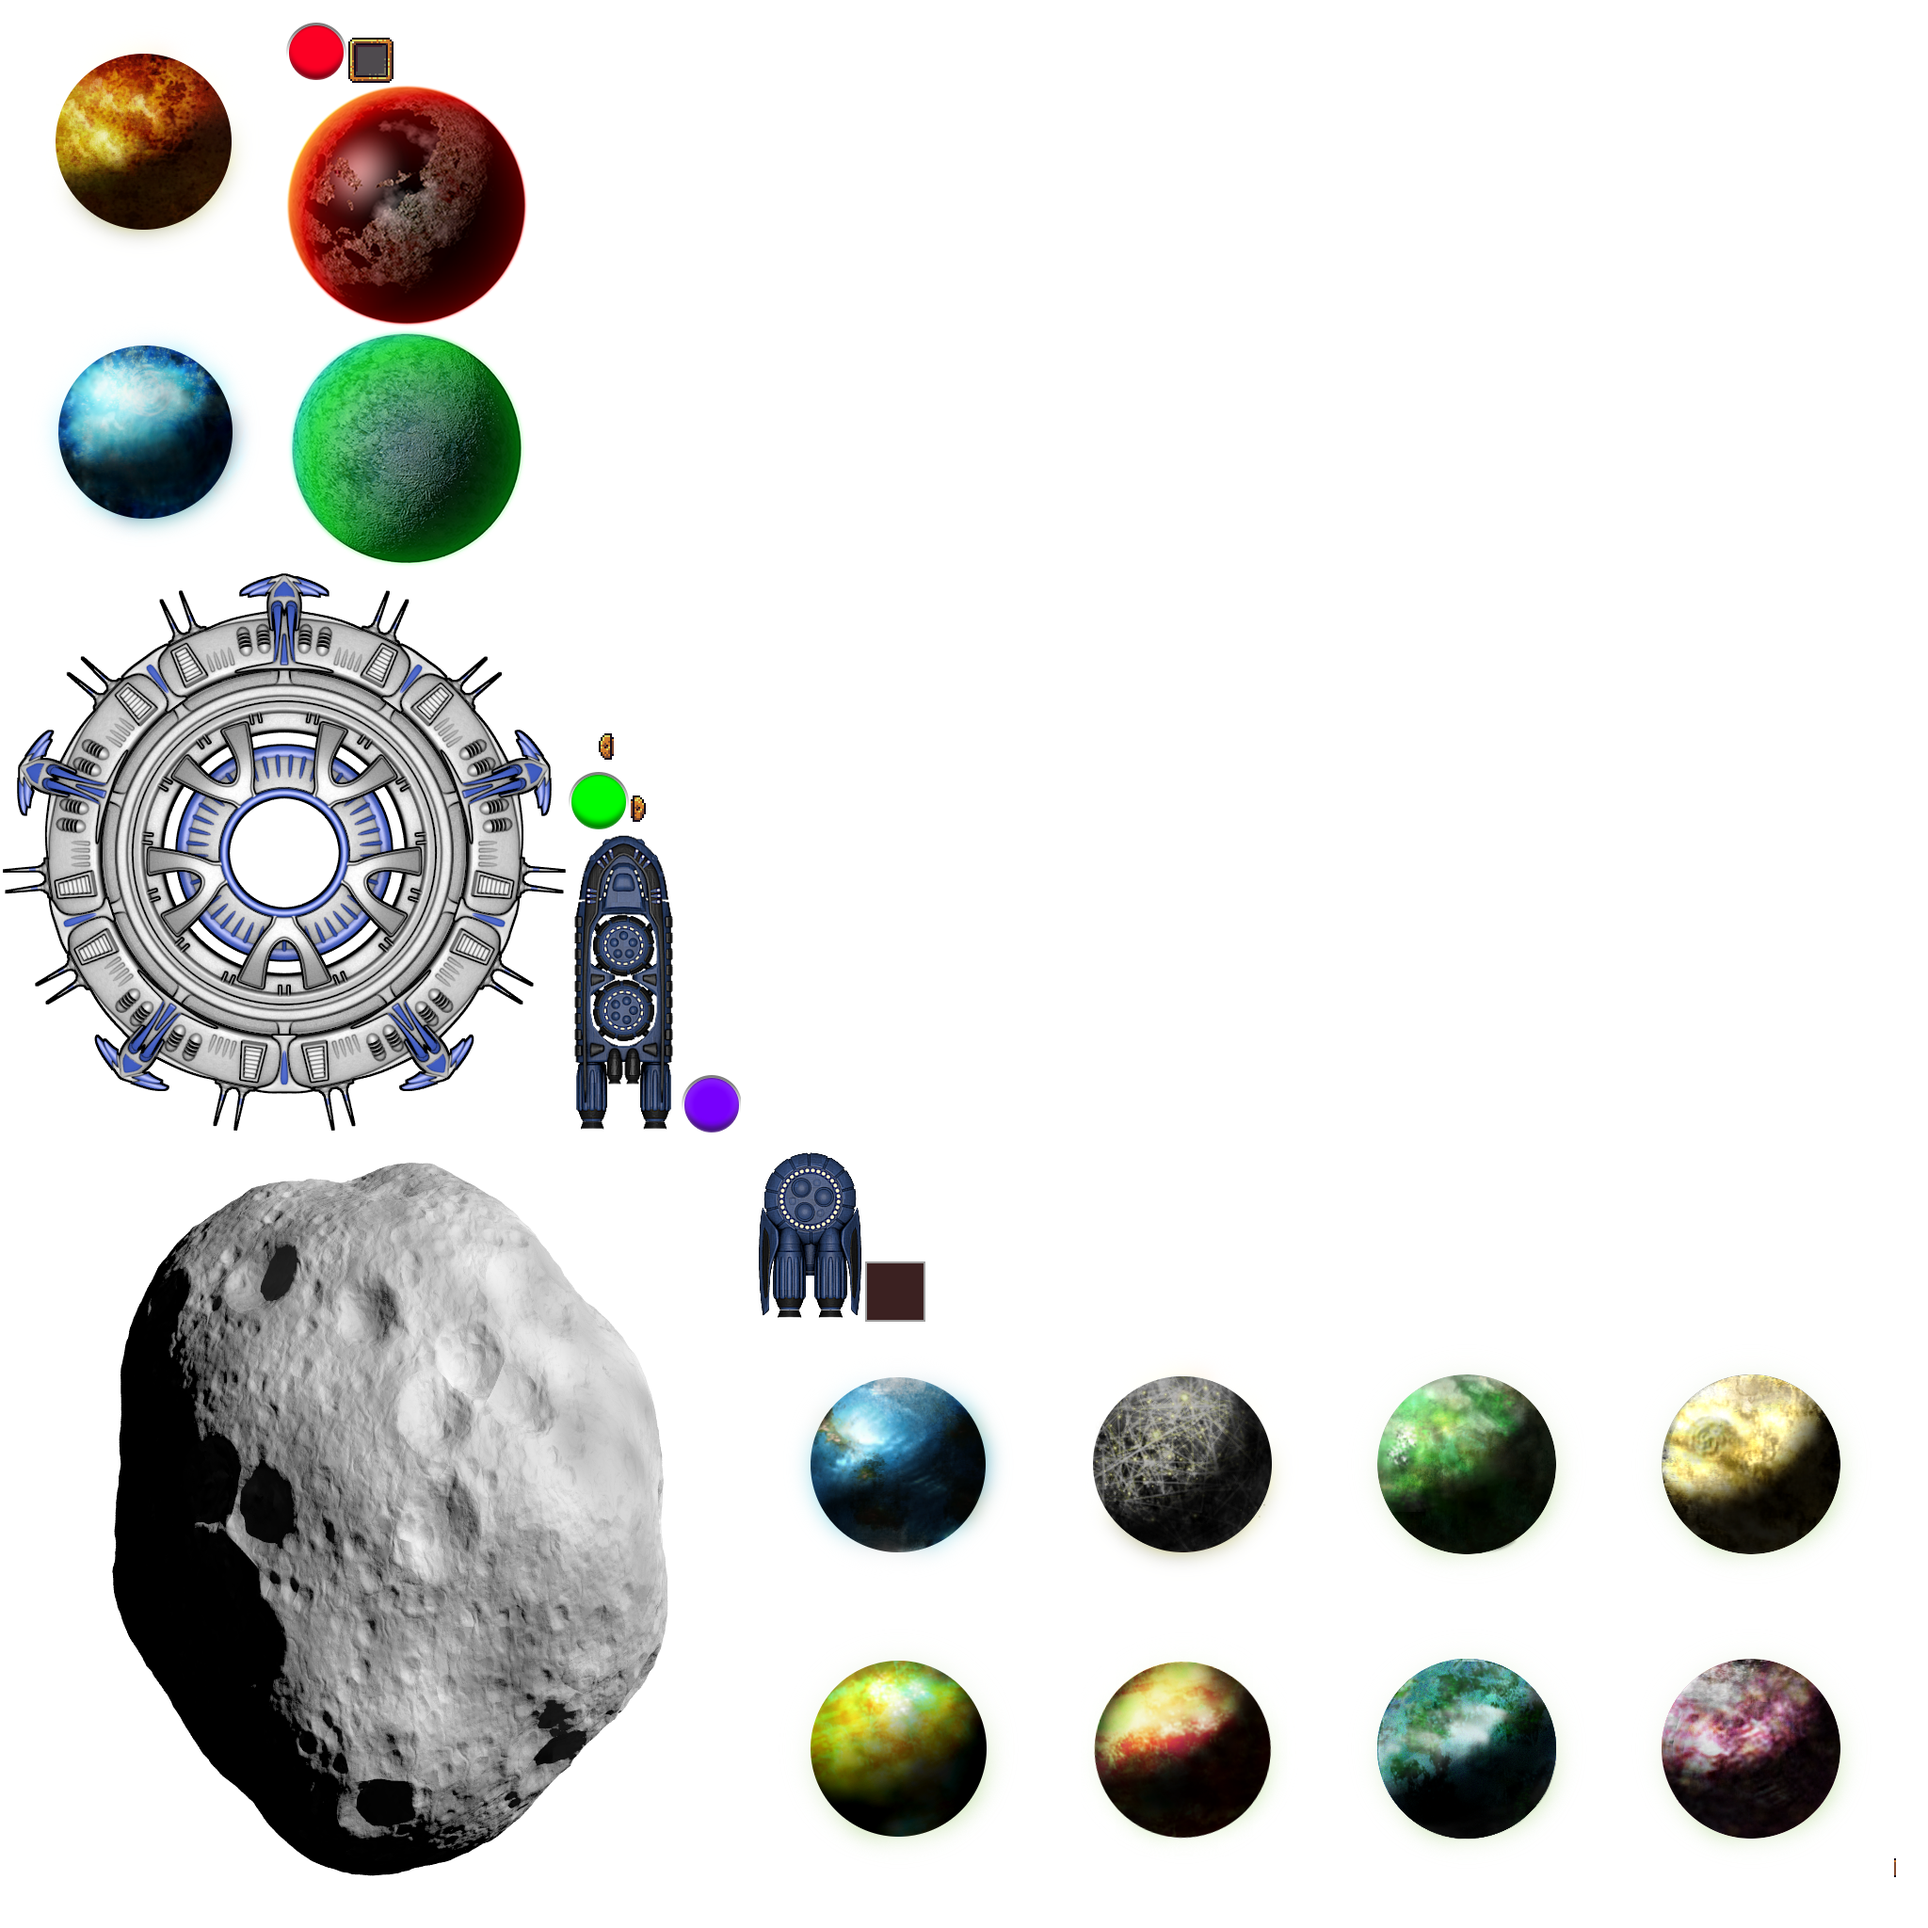
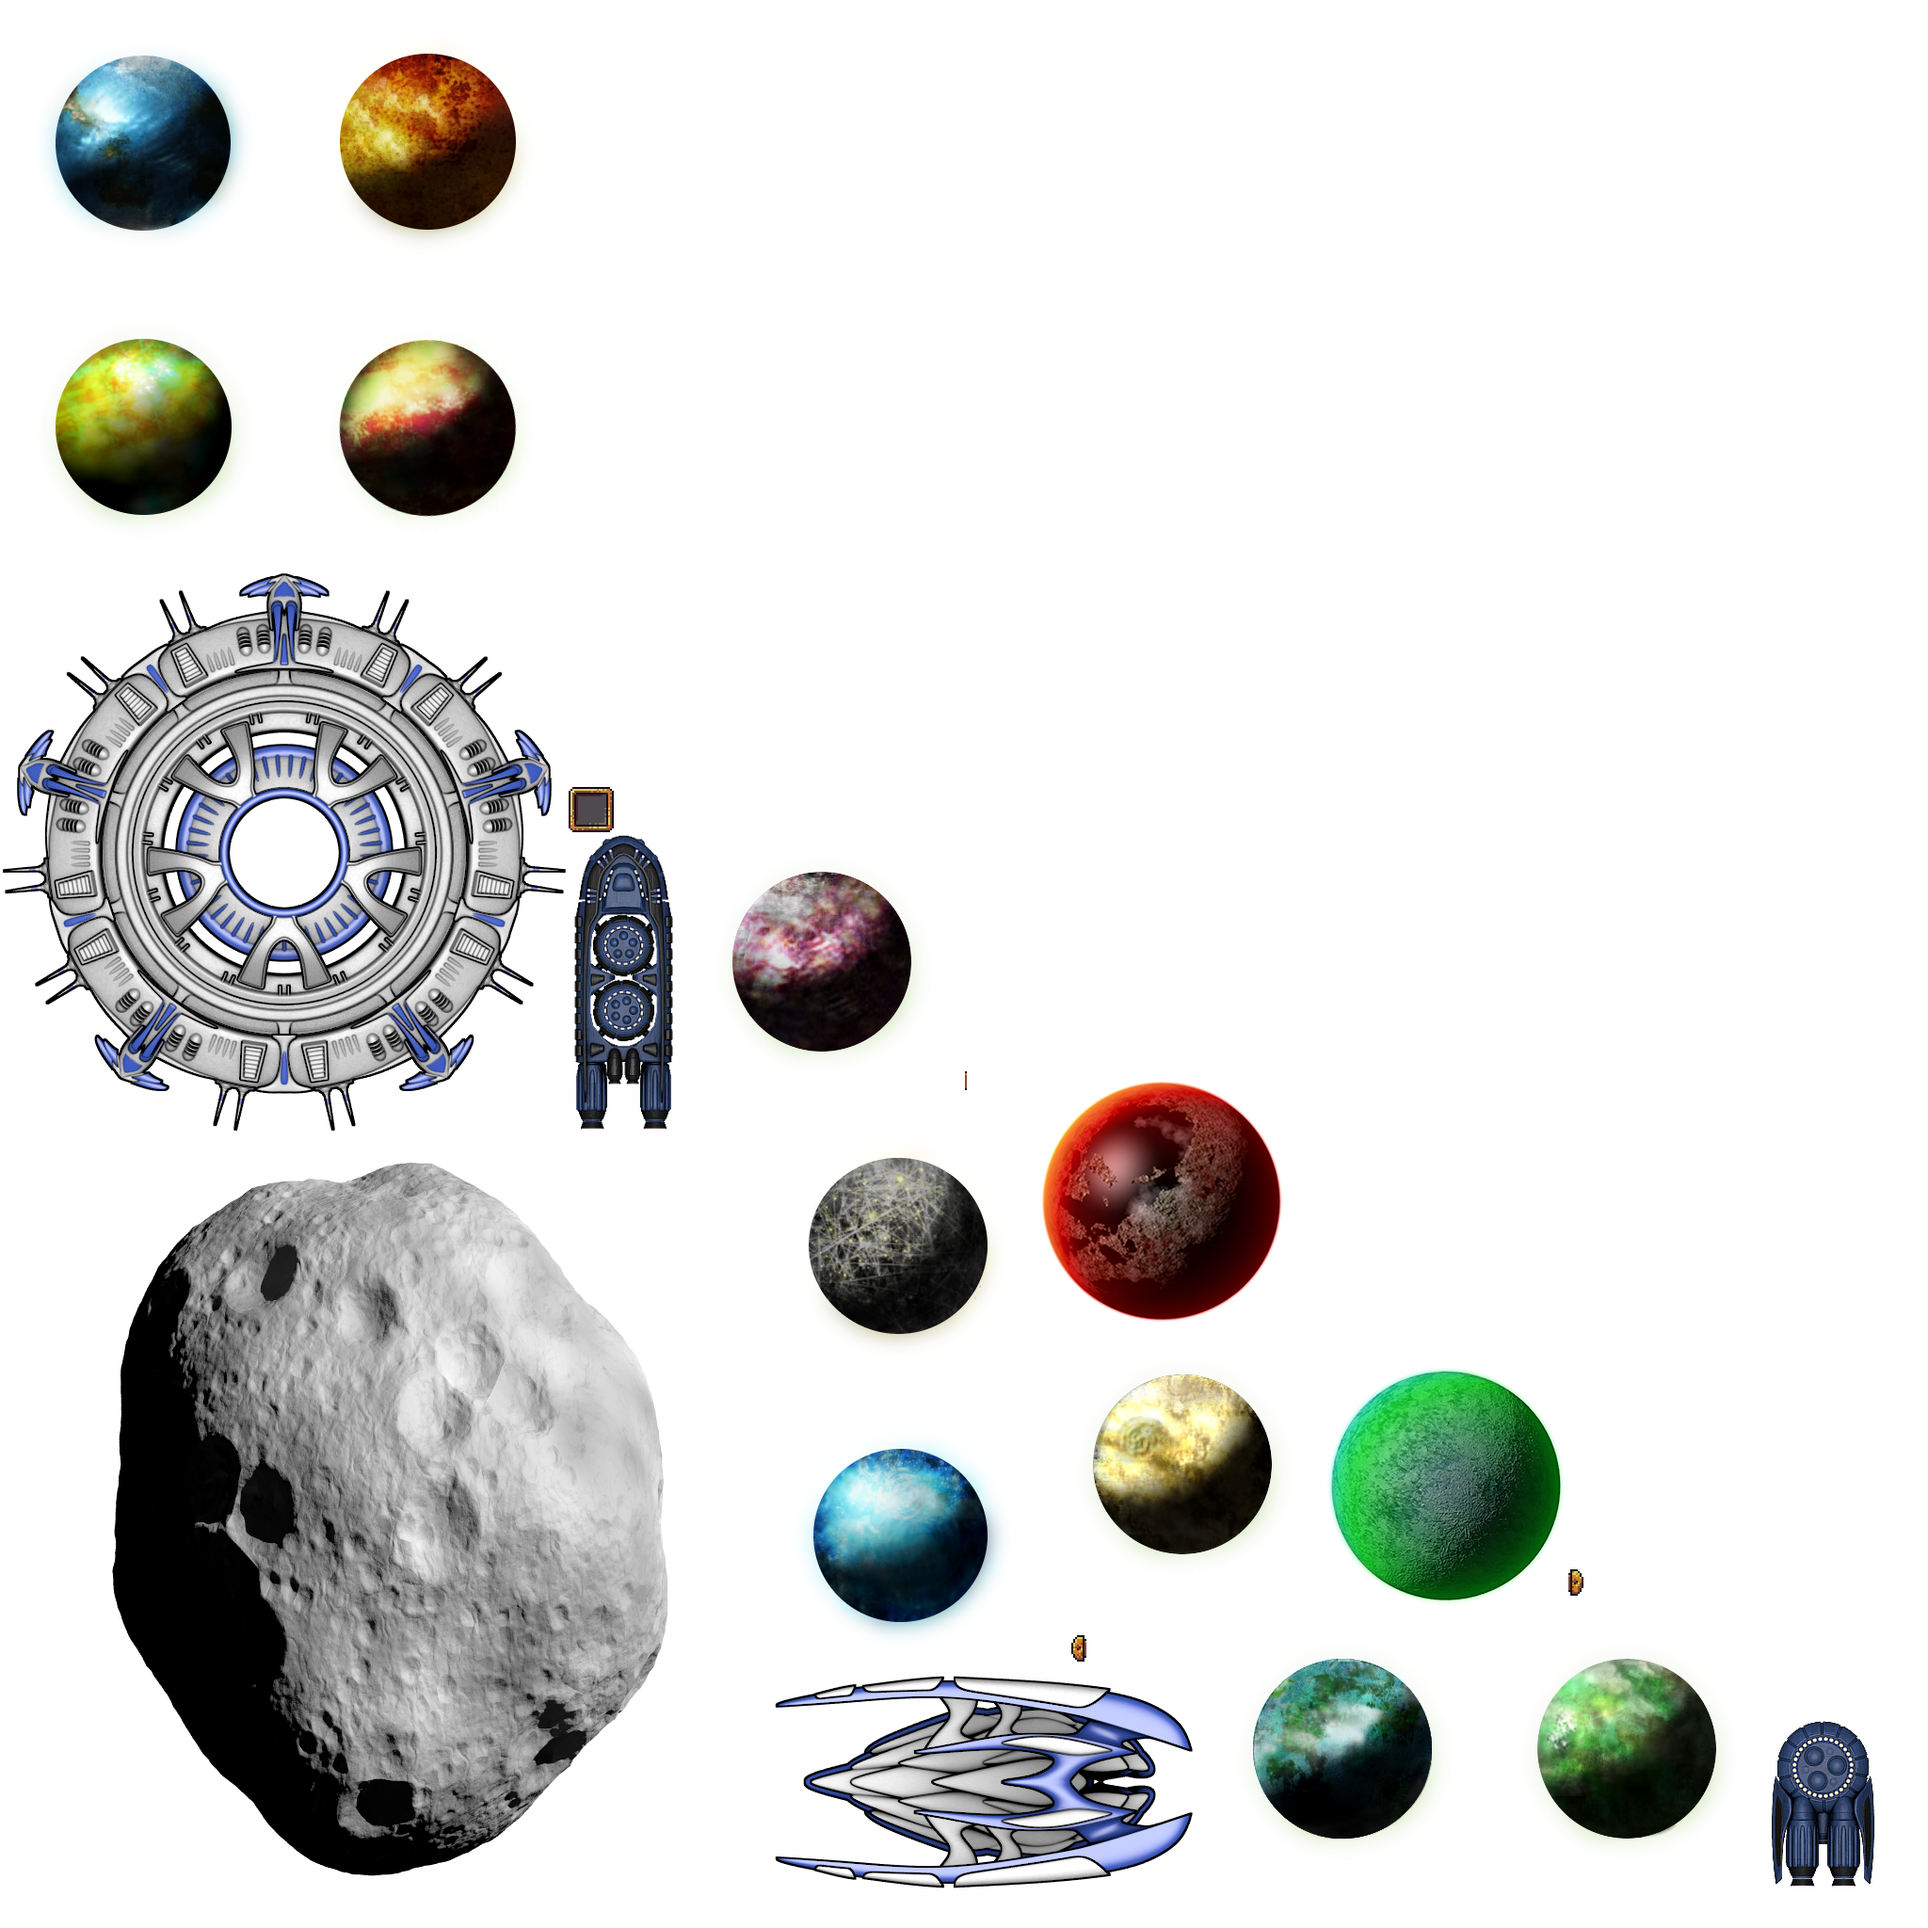
Added basic inital squad generation
- Moved rebuid atlas flag into the Assets class
- Added inital squads created during world gen

diff --git a/core/src/com/gdxjam/utils/WorldGenerator.java b/core/src/com/gdxjam/utils/WorldGenerator.java
@@ -1,6 +1,8 @@
 
 package com.gdxjam.utils;
 
+import java.util.Random;
+
 import com.badlogic.gdx.math.MathUtils;
 import com.badlogic.gdx.math.Vector2;
 
@@ -10,6 +12,7 @@ import com.badlogic.gdx.math.Vector2;
 public class WorldGenerator {
 
 	private final OpenSimplexNoise noise;
+	private Random rng;
 
 	private int width;
 	private int height;
@@ -25,6 +28,7 @@ public class WorldGenerator {
 		this.height = height;
 		radius = width * 0.5f;
 		noise = new OpenSimplexNoise(seed);
+		rng = new Random(seed);
 		this.param = param;
 	}
 
@@ -41,8 +45,28 @@ public class WorldGenerator {
 	public void populateWorld () {
 		Vector2 center = new Vector2(width * 0.5f, height * 0.5f);
 		EntityFactory.createOutpost(center);
+		
+		float distance = 16.0f;
 
-		// TODO Create starting squads
+		float seperationAngle = 360.0f / (float)param.initalSquads;
+		//float initalAngle = rng.nextInt(359);
+		float initalAngle = 18.0f;
+		
+		for(int i = 0; i < param.initalSquads; i++){
+			Vector2 angleVec = new Vector2(distance, 0.0f).setAngle(initalAngle + seperationAngle * i);
+			Vector2 position = center.cpy().add(angleVec);
+			createSquad(position);
+		}
+	}
+	
+	public void createSquad(Vector2 position){
+		int posX = (int)position.x;
+		int posY = (int)position.y;
+		for(int x = -1; x < 2; x++) {
+			for (int y = -1; y < 2; y++){
+				EntityFactory.createUnit(new Vector2(posX + x, posY + y));
+			}
+		}
 	}
 
 	public void generateAsteroidField () {

diff --git a/core/src/com/gdxjam/Assets.java b/core/src/com/gdxjam/Assets.java
@@ -1,8 +1,6 @@
 package com.gdxjam;
 
 import com.badlogic.gdx.Gdx;
-import com.badlogic.gdx.assets.AssetDescriptor;
-import com.badlogic.gdx.assets.AssetErrorListener;
 import com.badlogic.gdx.assets.AssetManager;
 import com.badlogic.gdx.graphics.g2d.BitmapFont;
 import com.badlogic.gdx.graphics.g2d.NinePatch;
@@ -16,6 +14,9 @@ import com.badlogic.gdx.utils.Disposable;
 public class Assets implements Disposable {
 
 	public static final String TAG = Assets.class.getSimpleName();
+	
+	public static boolean rebuildAtlas = false;
+	public static boolean drawDebugOutline = false;
 
 	public static AssetManager manager;
 	public static AssetManager getManager() {
@@ -60,11 +61,13 @@ public class Assets implements Disposable {
 
 	public static class AssetSpacecraft {
 		public final AtlasRegion outpost;
+		public final AtlasRegion ship;
 
 		// public final AtlasRegion ship;
 
 		public AssetSpacecraft(TextureAtlas atlas) {
 			outpost = atlas.findRegion("outpost");
+			ship = atlas.findRegion("ship");
 		}
 	}
 	

diff --git a/desktop/src/com/gdxjam/base/desktop/DesktopLauncher.java b/desktop/src/com/gdxjam/base/desktop/DesktopLauncher.java
@@ -4,20 +4,20 @@ import com.badlogic.gdx.backends.lwjgl.LwjglApplication;
 import com.badlogic.gdx.backends.lwjgl.LwjglApplicationConfiguration;
 import com.badlogic.gdx.tools.texturepacker.TexturePacker;
 import com.badlogic.gdx.tools.texturepacker.TexturePacker.Settings;
+import com.gdxjam.Assets;
 import com.gdxjam.Main;
 
 public class DesktopLauncher {
 
-	private static boolean rebuildAtlas = false;
-	private static boolean drawDebugOutline = false;
+
 
 	public static void main(String[] arg) {
 
-		if (rebuildAtlas) {
+		if (Assets.rebuildAtlas) {
 			Settings settings = new Settings();
 			settings.maxWidth = 2048;
 			settings.maxHeight = 2048;
-			settings.debug = drawDebugOutline;
+			settings.debug = Assets.drawDebugOutline;
 			try {
 				TexturePacker.process(settings, "assets-raw",
 						"../android/assets", "assets");

diff --git a/core/src/com/gdxjam/screens/TestScreen.java b/core/src/com/gdxjam/screens/TestScreen.java
@@ -8,7 +8,6 @@ import com.gdxjam.GameManager;
 import com.gdxjam.input.DefaultInputProcessor;
 import com.gdxjam.input.DesktopGestureListener;
 import com.gdxjam.input.InputAITest;
-import com.gdxjam.systems.CommanderControllerSystem;
 import com.gdxjam.utils.GUItest;
 
 public class TestScreen extends AbstractScreen {
@@ -38,7 +37,6 @@ public class TestScreen extends AbstractScreen {
 
 	public void createTestWorld() {
 		engine = GameManager.initEngine();
-		engine.addSystem(new CommanderControllerSystem());
 //		WorldGenerator.generateForest(new Vector2(20, 20), 25, 7, 0.1f, 0.2f, 0.1f, "tree");
 //		WorldGenerator.generateForest(new Vector2(-10, 5), 10, 30, 0.1f, 0.2f, 0.05f, "tree");
 //		

diff --git a/core/src/com/gdxjam/utils/EntityFactory.java b/core/src/com/gdxjam/utils/EntityFactory.java
@@ -65,7 +65,7 @@ public class EntityFactory {
 			.steerableBody(BodyType.DynamicBody)
 			.circleCollider(radius)
 			.health(100)
-			.sprite(Assets.spacecraft.outpost, radius * 2, radius * 2)
+			.sprite(Assets.spacecraft.ship, radius * 2, radius * 2)
 			.build();
 		
 		entity.add(engine.createComponent(SteeringBehaviorComponent.class));
